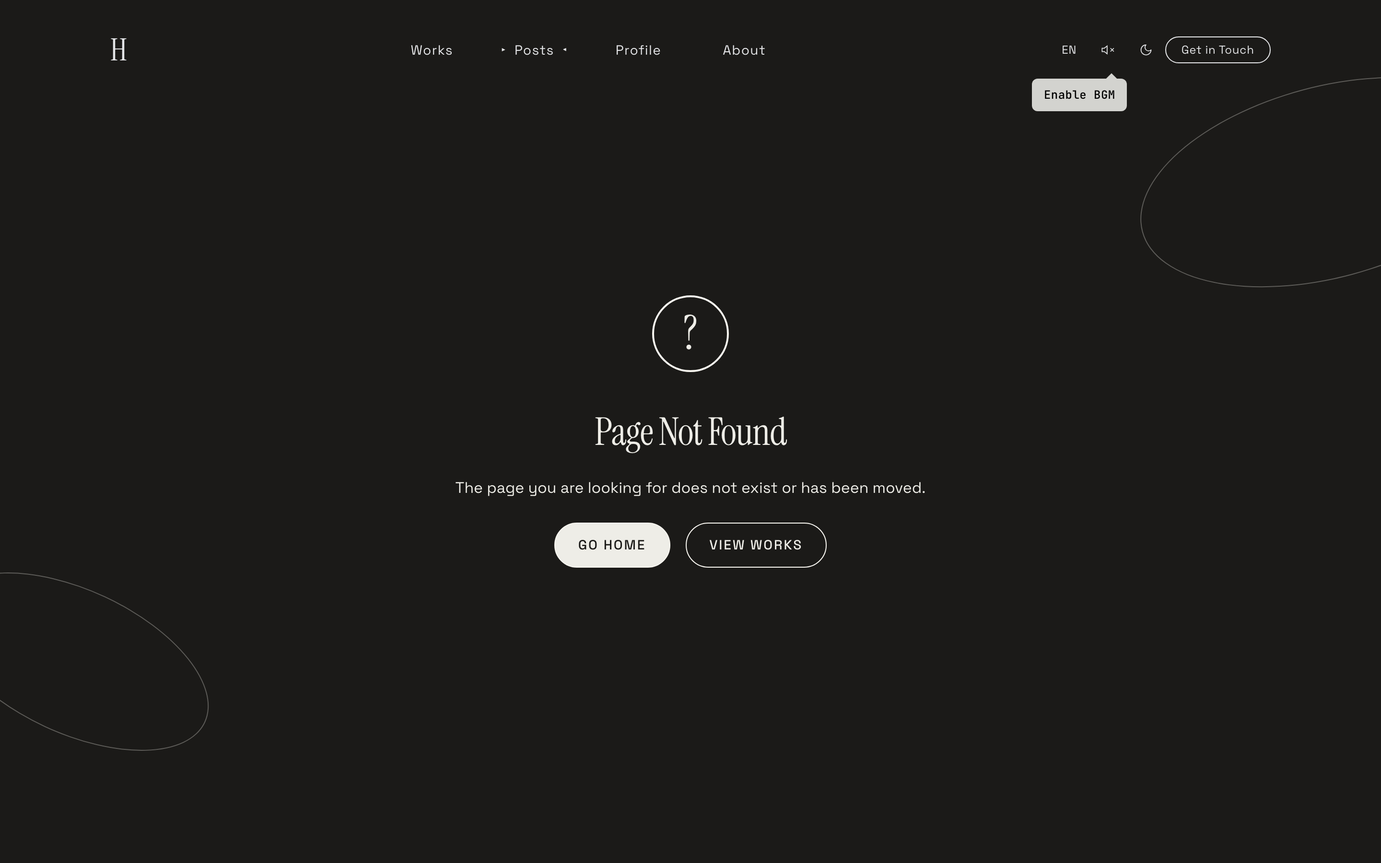
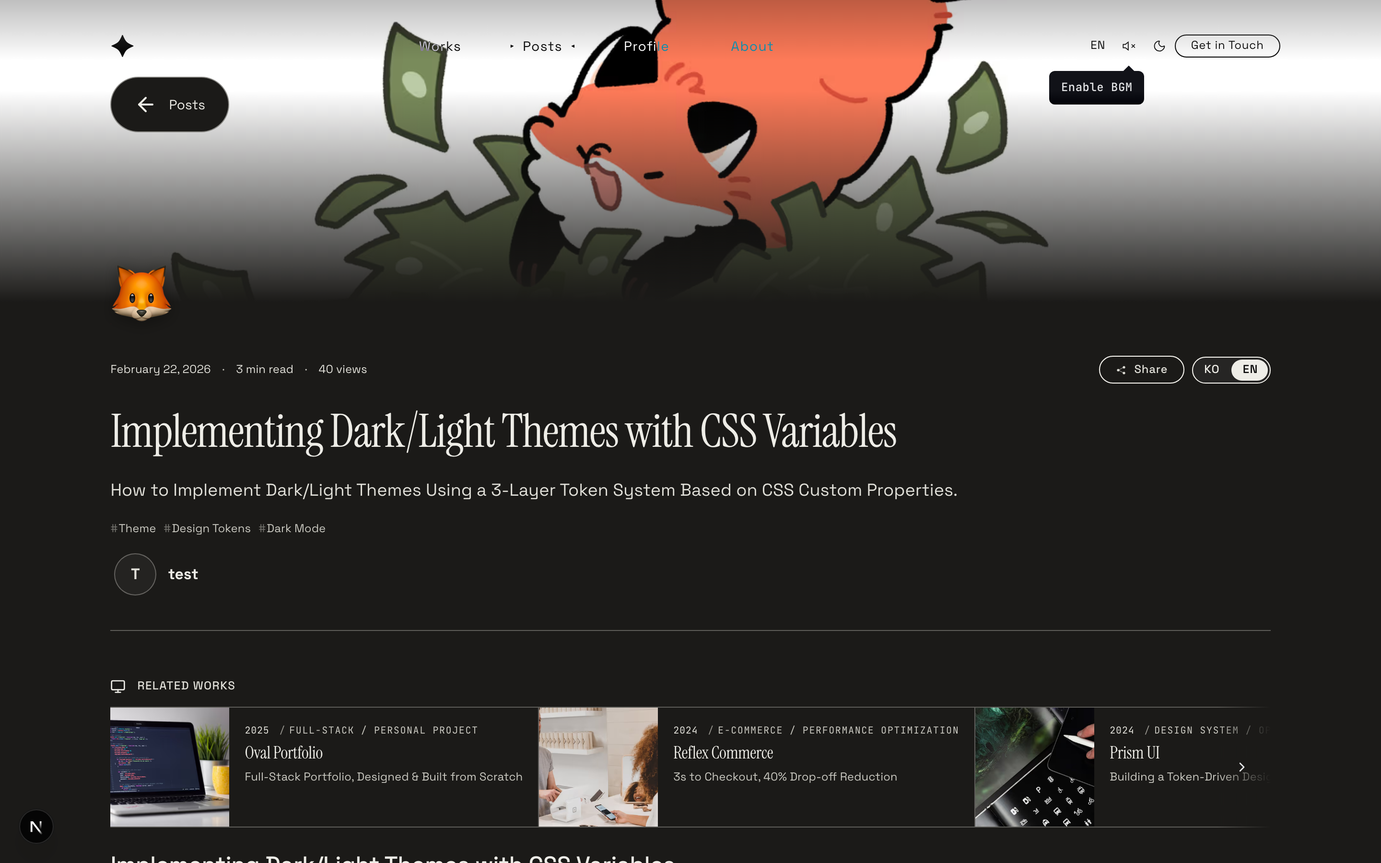
chore(config): 프로젝트 소개 수치·스택 최신화 + 스크린샷 교체
works 의 자기 소개가 Next.js 15 · 5주 · 컴포넌트 50개에 멈춰 있었다. 지금 상태(Next.js 16,
6개월째, 컴포넌트 250여 개, 라이브러리 70여 개)로 맞춘다. Lighthouse 점수는 어떤 항목인지
적지 않으면 오해를 부르므로 "모바일 Performance" 를 덧붙였다.

기능 소개용 스크린샷도 지금 화면으로 다시 찍었다.

Refs #605

diff --git a/src/config/site.config.ts b/src/config/site.config.ts
@@ -723,18 +723,18 @@ export const siteConfig = {
     // Progress ↔ Tech Stack 사이 시각적 구분선 이미지 (full-bleed cover)
     visualBreakImage: "https://images.unsplash.com/photo-1451187580459-43490279c0fa?w=1600&h=1000&fit=crop",
     /* ── Overview panel — 프로젝트 소개 문단 + highlights 칩 + stats 카드 ── */
-    overview_description_ko: "Claude와 함께 만든 풀스택 포트폴리오. Next.js 15 App Router를 기반으로 GSAP·Framer Motion 애니메이션, Lenis 무한 스크롤, Supabase 블로그까지 직접 설계하고 구현했습니다.",
-    overview_description_en: "A full-stack portfolio built alongside Claude. Designed and implemented from scratch — Next.js 15 App Router, GSAP & Framer Motion animations, Lenis infinite scroll, and a Supabase-powered blog.",
+    overview_description_ko: "Claude와 함께 만든 풀스택 포트폴리오. Next.js 16 App Router를 기반으로 GSAP·Framer Motion 애니메이션, Lenis 무한 스크롤, Supabase 블로그까지 직접 설계하고 구현했습니다.",
+    overview_description_en: "A full-stack portfolio built alongside Claude. Designed and implemented from scratch — Next.js 16 App Router, GSAP & Framer Motion animations, Lenis infinite scroll, and a Supabase-powered blog.",
     /* highlights — 쉼표 구분 문자열. OverviewPanel 가 split 해서 칩 렌더 */
-    overview_highlights: "Next.js 15, GSAP ScrollTrigger, Framer Motion, Lenis Smooth Scroll, Three.js (R3F), CSS Variables, Supabase, i18n (KO/EN), IP-Based Likes, Dark/Light Theme",
+    overview_highlights: "Next.js 16, GSAP ScrollTrigger, Framer Motion, Lenis Smooth Scroll, Three.js (R3F), CSS Variables, Supabase, i18n (KO/EN), IP-Based Likes, Dark/Light Theme",
     /* stats — value + label(ko,en). label 에 \n 들어가면 줄바꿈 */
     overview_stats: [
-      { value: "5 Wks+", label_ko: "개발 기간\n(2/5 – 3/12)", label_en: "Dev Period\n(2/5 – 3/12)" },
-      { value: "50+", label_ko: "컴포넌트", label_en: "Components" },
-      { value: "15+", label_ko: "커스텀 훅", label_en: "Custom Hooks" },
-      { value: "98", label_ko: "Lighthouse", label_en: "Lighthouse" },
+      { value: "6 Mo+", label_ko: "개발 기간\n(2/5 – 진행 중)", label_en: "Dev Period\n(Feb 5 – ongoing)" },
+      { value: "250+", label_ko: "컴포넌트", label_en: "Components" },
+      { value: "50+", label_ko: "커스텀 훅", label_en: "Custom Hooks" },
+      { value: "98", label_ko: "Lighthouse\n(모바일 Performance)", label_en: "Lighthouse\n(mobile performance)" },
       { value: "2", label_ko: "언어 지원", label_en: "Languages" },
-      { value: "15+", label_ko: "라이브러리", label_en: "Libraries" },
+      { value: "70+", label_ko: "라이브러리", label_en: "Libraries" },
     ] as Array<{ value: string; label_ko: string; label_en: string }>,
     /* ── Hero panel — 첫 화면 큰 글자. bilingual (기본값은 한=영 통일, admin 에서 언어별로 분기 가능) ── */
     /* 상단 라벨 — 비어있으면 i18n aboutPage.title ("The Making Of") 사용 */
@@ -806,7 +806,7 @@ export const siteConfig = {
     /* ── Tech stack — TechStackPanel 항목. admin 에서 자유롭게 추가/수정/삭제 ── */
     /* icon: simple-icons slug (예 "react") 또는 업로드/링크된 이미지 URL. 빈 값이면 이니셜 표시. */
     techStack: [
-      { name: "Next.js 15", category: "Framework", icon: "nextdotjs" },
+      { name: "Next.js 16", category: "Framework", icon: "nextdotjs" },
       { name: "React 19", category: "Library", icon: "react" },
       { name: "TypeScript", category: "Language", icon: "typescript" },
       { name: "GSAP", category: "Animation", icon: "greensock" },
@@ -828,31 +828,30 @@ export const siteConfig = {
     ] as Array<{ name: string; category: string; icon?: string }>,
     /* ── Features panel — 아이콘/제목/설명(ko,en)/tech 칩/이미지 URL ── */
     features: [
-      { icon: "01", title: "Infinite Scroll Loop", description_ko: "페이지 끝에 도달해도 끊김 없이 처음으로 돌아가는 무한 스크롤을 구현했습니다. 마지막과 첫 섹션 사이에 Bridge Section을 삽입해 루프 이음새가 자연스럽습니다.", description_en: "Scroll reaches the end and seamlessly loops back to the beginning. A bridge section between the last and first panels keeps the loop seam invisible.", tech: "Lenis, Infinite Scroll, Bridge Section", image: "https://images.pexels.com/photos/9409730/pexels-photo-9409730.jpeg?auto=compress&cs=tinysrgb&w=800" },
-      { icon: "02", title: "i18n Bilingual System", description_ko: "한국어/영어 전환을 지원하는 다국어 시스템입니다. Context API 기반으로 모든 UI가 즉시 전환되며, 어드민 콘텐츠도 이중 언어를 지원합니다. DeepL/Google/Gemini/Claude API 기반 자동 번역도 제공합니다.", description_en: "A bilingual system with instant Korean/English switching via Context API. Admin content supports dual languages, with auto-translation powered by DeepL/Google/Gemini/Claude API.", tech: "Context API, JSON Locale, Bilingual Content, DeepL/Gemini/Claude", image: "https://images.unsplash.com/photo-1706403615881-d83dc2067c5d?w=800&q=80" },
+      { icon: "01", title: "Infinite Scroll Loop", description_ko: "페이지 끝에 도달해도 끊김 없이 처음으로 돌아가는 무한 스크롤을 구현했습니다. 마지막과 첫 섹션 사이에 Bridge Section을 삽입해 루프 이음새가 자연스럽습니다.", description_en: "Scroll reaches the end and seamlessly loops back to the beginning. A bridge section between the last and first panels keeps the loop seam invisible.", tech: "Lenis, Infinite Scroll, Bridge Section", image: "/images/screenshots/pc/home-dark.png" },
+      { icon: "02", title: "i18n Bilingual System", description_ko: "한국어/영어 전환을 지원하는 다국어 시스템입니다. Context API 기반으로 모든 UI가 즉시 전환되며, 어드민 콘텐츠도 이중 언어를 지원합니다. DeepL/Google/Gemini/Claude API 기반 자동 번역도 제공합니다.", description_en: "A bilingual system with instant Korean/English switching via Context API. Admin content supports dual languages, with auto-translation powered by DeepL/Google/Gemini/Claude API.", tech: "Context API, JSON Locale, Bilingual Content, DeepL/Gemini/Claude", image: "/images/screenshots/pc/feat-i18n.png" },
       { icon: "03", title: "Performance Optimization", description_ko: "성능 분석을 통해 모바일 Lighthouse 점수를 60점에서 98점으로 끌어올리고, 페이지 용량을 70% 줄였습니다.", description_en: "Boosted mobile Lighthouse score from 60 to 98 and reduced page size by 70% through targeted optimization.", tech: "Font Subsetting, Lazy Loading, font-display, browserslist", image: "https://images.unsplash.com/photo-1611760357505-922600d8ffa6?w=800&q=80" },
-      { icon: "04", title: "Works Horizontal Gallery", description_ko: "작품들을 좌우로 스크롤하며 감상할 수 있는 가로 갤러리입니다. GSAP 기반 양방향 무한 래핑과 한/영 레이아웃 분기를 지원합니다.", description_en: "Browse works in a horizontal gallery with GSAP-powered infinite wrapping in both directions and layout branching for Korean/English.", tech: "GSAP, Infinite Wrapping, i18n Layout, Responsive", image: "https://images.unsplash.com/photo-1606819717115-9159c900370b?w=800&q=80" },
-      { icon: "05", title: "Dark / Light Theme", description_ko: "다크 모드와 라이트 모드를 전환하면 모든 요소가 부드럽게 테마에 맞춰 변합니다. 시스템 설정 감지와 사용자 선택 기억을 동시에 지원합니다.", description_en: "Switch between dark and light modes — every element smoothly transitions. Respects system preferences while remembering user choice.", tech: "CSS Variables, data-theme, prefers-color-scheme, localStorage", image: "https://images.unsplash.com/photo-1614278016630-017112643d7f?w=800&q=80" },
-      { icon: "06", title: "3D Scroll Torus", description_ko: "스크롤하면 화면 위를 떠다니는 금속 느낌의 3D 도넛 오브젝트입니다. 리사주 곡선 경로를 따라 움직이며 테마에 따라 질감이 바뀝니다.", description_en: "A metallic 3D torus floats along a Lissajous curve path as you scroll, with its texture adapting to the current theme.", tech: "Three.js, React Three Fiber, Lissajous Curve, Environment Map", image: "https://images.unsplash.com/photo-1739056238917-d89cd05c48d5?w=800&q=80" },
-      { icon: "07", title: "Posts & Series", description_ko: "Supabase 기반 블로그 시스템. Markdown/Rich Text 전환 에디터, 시리즈 발행, 카테고리별 책 모양 카드 탐색, 검색·태그 필터, 커버 이미지(프리셋/Unsplash/AI 생성), 발행 시 Gemini/OpenAI/Claude AI 자동 요약(ko+en)을 지원합니다.", description_en: "A full blog system on Supabase. Switchable Markdown/Rich Text editor, series publishing, book-shaped category browsing, search/tag filtering, cover images (presets/Unsplash/AI generation), and Gemini/OpenAI/Claude auto-summary (ko+en) on publish.", tech: "Supabase, Tiptap, Series, Canvas API, AI Cover, AI Summary", image: "https://images.unsplash.com/photo-1505682634904-d7c8d95cdc50?w=800&q=80" },
-      { icon: "08", title: "Comment & Like System", description_ko: "게스트 대댓글과 IP 기반 좋아요 시스템입니다. 닉네임+비밀번호로 댓글을 작성하고, 쓰레드 형태의 대댓글을 지원하며, 관리자 답변 시 이메일 알림이 발송됩니다.", description_en: "Guest threaded comments with IP-based likes. Post comments via nickname + password, with threaded replies and email notifications when the admin responds.", tech: "Supabase, Threaded Replies, IP Likes, Email Notify", image: "https://images.unsplash.com/photo-1662974770404-468fd9660389?w=800&q=80" },
-      { icon: "09", title: "Admin CMS", description_ko: "로그인 버튼 없이 URL 직접 접속 방식의 숨겨진 어드민입니다. 포스트·작품·프로필을 이중 언어로 CRUD하고, 테마·폰트·사이트 설정을 실시간으로 변경할 수 있습니다. DB 미연결 시 정적 데이터로 자동 fallback됩니다.", description_en: "A hidden admin accessed via direct URL — no visible login button. Full CRUD for posts, works, and profiles in dual languages, plus real-time theme, font, and site settings. Auto-falls back to static data when DB is unavailable.", tech: "Supabase Auth, Next.js Middleware, JSONB, Static Fallback", image: "https://images.unsplash.com/photo-1639313521811-fdfb1c040ddb?w=800&q=80" },
+      { icon: "04", title: "Works Horizontal Gallery", description_ko: "작품들을 좌우로 스크롤하며 감상할 수 있는 가로 갤러리입니다. GSAP 기반 양방향 무한 래핑과 한/영 레이아웃 분기를 지원합니다.", description_en: "Browse works in a horizontal gallery with GSAP-powered infinite wrapping in both directions and layout branching for Korean/English.", tech: "GSAP, Infinite Wrapping, i18n Layout, Responsive", image: "/images/screenshots/pc/feat-works.png" },
+      { icon: "05", title: "Dark / Light Theme", description_ko: "다크 모드와 라이트 모드를 전환하면 모든 요소가 부드럽게 테마에 맞춰 변합니다. 시스템 설정 감지와 사용자 선택 기억을 동시에 지원합니다.", description_en: "Switch between dark and light modes — every element smoothly transitions. Respects system preferences while remembering user choice.", tech: "CSS Variables, data-theme, prefers-color-scheme, localStorage", image: "/images/screenshots/pc/feat-colors.png" },
+      { icon: "06", title: "3D Scroll Torus", description_ko: "스크롤하면 화면 위를 떠다니는 금속 느낌의 3D 도넛 오브젝트입니다. 리사주 곡선 경로를 따라 움직이며 테마에 따라 질감이 바뀝니다.", description_en: "A metallic 3D torus floats along a Lissajous curve path as you scroll, with its texture adapting to the current theme.", tech: "Three.js, React Three Fiber, Lissajous Curve, Environment Map", image: "/images/screenshots/pc/feat-torus.png" },
+      { icon: "07", title: "Posts & Series", description_ko: "Supabase 기반 블로그 시스템. Markdown/Rich Text 전환 에디터, 시리즈 발행, 카테고리별 책 모양 카드 탐색, 검색·태그 필터, 커버 이미지(프리셋/Unsplash/AI 생성), 발행 시 Gemini/OpenAI/Claude AI 자동 요약(ko+en)을 지원합니다.", description_en: "A full blog system on Supabase. Switchable Markdown/Rich Text editor, series publishing, book-shaped category browsing, search/tag filtering, cover images (presets/Unsplash/AI generation), and Gemini/OpenAI/Claude auto-summary (ko+en) on publish.", tech: "Supabase, Plate, Series, Canvas API, AI Cover, AI Summary", image: "/images/screenshots/pc/feat-series.png" },
+      { icon: "08", title: "Comment & Like System", description_ko: "로그인 없이 쓰는 쓰레드형 댓글입니다. 비밀번호를 함께 받아 수정·삭제 때 대조하고, 관리자 답변 시 이메일로 알립니다. 댓글에는 giscus 식 이모지 반응 8종을, 게시물에는 IP 기준 좋아요를 답니다.", description_en: "Threaded comments that need no sign-in. A password is collected up front and checked on edit or delete, and the admin's reply triggers an email. Comments carry a giscus-style set of 8 emoji reactions; posts carry IP-based likes.", tech: "Supabase, Threaded Replies, Emoji Reactions, bcrypt, Email Notify", image: "/images/screenshots/pc/feat-comment.png" },
+      { icon: "09", title: "Admin CMS", description_ko: "로그인 버튼 없이 URL 직접 접속 방식의 숨겨진 어드민입니다. 포스트·작품·프로필을 이중 언어로 CRUD하고, 테마·폰트·사이트 설정을 실시간으로 변경할 수 있습니다. DB 미연결 시 정적 데이터로 자동 fallback됩니다.", description_en: "A hidden admin accessed via direct URL — no visible login button. Full CRUD for posts, works, and profiles in dual languages, plus real-time theme, font, and site settings. Auto-falls back to static data when DB is unavailable.", tech: "Supabase Auth, Next.js Middleware, JSONB, Static Fallback", image: "/images/screenshots/pc/feat-admin.png" },
     ] as Array<{ icon: string; title: string; description_ko: string; description_en: string; tech: string; image: string }>,
     /* ── Process panel — 단계/제목(ko,en)/설명(ko,en) ── */
     process: [
       { step: "01", title_ko: "설계 및 디자인 시스템 구축", title_en: "Design System & Foundation", description_ko: "**CSS Variables** 기반 디자인 토큰을 정의하고, **다크/라이트 테마** 전환 시스템과 **CSS Modules 캡슐화 구조를 설계**했습니다. 타이포그래피, 색상, 간격 체계를 확립하고 전체 레이아웃의 기반을 잡았습니다.", description_en: "Defined design tokens based on **CSS Variables**, and established a **dark/light theme** switching system with **CSS Modules encapsulation.** Established typography, color, and spacing systems that form the foundation of the entire layout." },
-      { step: "02", title_ko: "핵심 UI 컴포넌트 개발", title_en: "Core UI Component Development", description_ko: "**Hero** 섹션, **Navigation**, **Contact Drawer**, **Loading Screen** 등 주요 UI 컴포넌트를 구현했습니다. 네비게이션의 언어·테마 버튼에 **flip/pop 애니메이션**을 적용하고, 로딩 화면에 **001→100 카운팅 애니메이션**을 추가하는 등 각 컴포넌트의 인터랙션을 설계했습니다.", description_en: "Built core UI components including **Hero** section, **Navigation**, **Contact Drawer**, and **Loading Screen**. Applied **flip/pop animations** to the navigation's language and theme buttons, added a **001→100 counting animation** to the loading screen, and designed interactions for each component." },
-      { step: "03", title_ko: "인터랙션 및 모션 디자인", title_en: "Interaction & Motion Design", description_ko: "**GSAP**과 **Framer Motion**을 활용해 Image Velocity, StaggerText, Mouse Parallax, Magnetic Hover, Direction-Aware ClipPath 등 **물리 기반 인터랙션**을 구현했습니다. 스크롤 속도와 마우스 움직임에 반응하는 **스프링 감쇠 기반 애니메이션**으로 자연스러운 모션을 구현했습니다.", description_en: "Implemented **physics-based interactions** using **GSAP** and **Framer Motion** — Image Velocity, StaggerText, Mouse Parallax, Magnetic Hover, and Direction-Aware ClipPath. Built natural motion through **spring-damped animations** that respond to scroll speed and mouse movement." },
-      { step: "04", title_ko: "다국어 지원 및 반응형 최적화", title_en: "Internationalization & Responsive Design", description_ko: "한/영 **다국어(i18n)** 시스템을 도입하고, 언어별 텍스트 길이 차이로 발생하는 **레이아웃 시프트**를 min-height 예약 방식으로 해결했습니다. 데스크톱·태블릿·모바일 각 환경에 맞는 **반응형 레이아웃**을 구현하고, **clamp() 기반 유동 사이징**을 적용했습니다.", description_en: "Introduced a Korean/English **i18n system** and resolved **layout shifts** from text length differences using reserved min-height. Implemented **responsive layouts** tailored to desktop, tablet, and mobile environments with **clamp()-based fluid sizing**." },
-      { step: "05", title_ko: "성능 최적화", title_en: "Performance Optimization", description_ko: "**Lighthouse CLI**로 프로덕션 빌드를 측정하며 2차에 걸쳐 최적화를 진행했습니다. reCAPTCHA를 **invisible 모드 + 지연 로딩**으로 전환하고, 미사용 폰트 4종(12파일)을 제거하여 페이지 용량을 **70% 절감**, 모바일 **Performance 98점**을 달성했습니다.", description_en: "Measured production builds with **Lighthouse CLI** through two rounds of optimization. Switched reCAPTCHA to **invisible mode with lazy loading**, removed 4 unused font families (12 files), reduced page weight by **70%**, and achieved a mobile **Performance score of 98**." },
-      { step: "06", title_ko: "문서화 및 프로젝트 회고", title_en: "Documentation & Project Retrospective", description_ko: "기술 선택의 이유, 문제 해결 과정, 아키텍처 구조를 기록하는 **About 페이지**를 구현했습니다. Code Highlights, Troubleshooting, Architecture 시각화 등 **6개 패널**을 데스크톱 가로 스크롤과 모바일 세로 레이아웃으로 완성했습니다.", description_en: "Built the **About page** documenting technology choices, problem-solving processes, and architecture structure. Completed **6 panels** — Code Highlights, Troubleshooting, Architecture visualization, and more — desktop horizontal scroll and mobile vertical layout." },
+      { step: "02", title_ko: "UI 컴포넌트와 인터랙션 구현", title_en: "UI Components & Interaction", description_ko: "**Hero** 섹션, **Navigation**, **Contact Drawer**, **Loading Screen** 등 주요 UI 컴포넌트를 구현했습니다. 각 컴포넌트의 움직임은 **GSAP**과 **Framer Motion**으로 처리해 Image Velocity, StaggerText, Mouse Parallax, Magnetic Hover 를 만들었습니다. 스크롤 속도와 마우스 움직임에 **스프링 감쇠**로 반응하도록 해서, 값이 목표치로 점차 수렴하며 멈춥니다.", description_en: "Built the core UI components — **Hero** section, **Navigation**, **Contact Drawer**, and **Loading Screen**. Their motion runs on **GSAP** and **Framer Motion**: Image Velocity, StaggerText, Mouse Parallax, and Magnetic Hover. Each responds to scroll speed and pointer movement with **spring damping**, so values converge on their target and settle instead of snapping." },
+      { step: "03", title_ko: "다국어 지원 및 반응형 최적화", title_en: "Internationalization & Responsive Design", description_ko: "한/영 **다국어(i18n)** 시스템을 도입하고, 언어별 텍스트 길이 차이로 발생하는 **레이아웃 시프트**를 min-height 예약 방식으로 해결했습니다. 데스크톱·태블릿·모바일 각 환경에 맞는 **반응형 레이아웃**을 구현하고, **clamp() 기반 유동 사이징**을 적용했습니다.", description_en: "Introduced a Korean/English **i18n system** and resolved **layout shifts** from text length differences using reserved min-height. Implemented **responsive layouts** tailored to desktop, tablet, and mobile environments with **clamp()-based fluid sizing**." },
+      { step: "04", title_ko: "성능 최적화", title_en: "Performance Optimization", description_ko: "**Lighthouse CLI**로 프로덕션 빌드를 측정하며 2차에 걸쳐 최적화를 진행했습니다. reCAPTCHA를 **invisible 모드 + 지연 로딩**으로 전환하고, 미사용 폰트 4종(12파일)을 제거하여 페이지 용량을 **70% 절감**, 모바일 **Performance 98점**을 달성했습니다.", description_en: "Measured production builds with **Lighthouse CLI** through two rounds of optimization. Switched reCAPTCHA to **invisible mode with lazy loading**, removed 4 unused font families (12 files), reduced page weight by **70%**, and achieved a mobile **Performance score of 98**." },
+      { step: "05", title_ko: "문서화 및 프로젝트 회고", title_en: "Documentation & Project Retrospective", description_ko: "기술 선택의 이유, 문제 해결 과정, 아키텍처 구조를 기록하는 **About 페이지**를 구현했습니다. Code Highlights, Design Decisions, Architecture 시각화 등 **15개 패널**을 데스크톱 가로 스크롤과 모바일 세로 레이아웃으로 완성했습니다.", description_en: "Built the **About page** documenting technology choices, problem-solving processes, and architecture structure. Completed **15 panels** — Code Highlights, Design Decisions, Architecture visualization, and more — desktop horizontal scroll and mobile vertical layout." },
     ] as Array<{ step: string; title_ko: string; title_en: string; description_ko: string; description_en: string }>,
     /* ── Security panel — layer/icon/title(ko,en)/description(ko,en)/scope(ko,en) ── */
     security: [
       { layer: "SQL Injection", icon: "db", title_ko: "SQL Injection 방지", title_en: "SQL Injection Prevention", description_ko: "모든 DB 쿼리에 Supabase **파라미터화 쿼리**(prepared statements)를 사용합니다. 사용자 입력이 쿼리 문자열에 직접 삽입되지 않아 SQL Injection 공격을 원천 차단합니다.", description_en: "All database queries use Supabase **parameterized queries** (prepared statements). User input is never directly interpolated into query strings, blocking SQL injection attacks at the source.", scope_ko: "모든 DB 쿼리", scope_en: "All DB queries" },
       { layer: "XSS", icon: "shield", title_ko: "XSS 방지", title_en: "XSS Prevention", description_ko: "React JSX가 모든 사용자 입력을 **자동 이스케이프**합니다. `dangerouslySetInnerHTML`을 사용하지 않으며, 서버 측에서 **HTML 태그 스트리핑**과 **제어문자 제거**를 추가로 적용합니다.", description_en: "React JSX **auto-escapes** all user input. No `dangerouslySetInnerHTML` is used. Server-side **HTML tag stripping** and **control character removal** provide additional defense.", scope_ko: "모든 사용자 입력 렌더링", scope_en: "All user input rendering" },
       { layer: "Input Validation", icon: "check", title_ko: "입력 검증", title_en: "Input Validation", description_ko: "모든 공개 API 엔드포인트에서 **UUID 포맷 검증**, **길이 제한**(content 2000자, password 72B, email 254자, nickname 50자), **이메일 포맷 검증**, **enum 타입 검증**, **카테고리 화이트리스트 검증**을 수행합니다.", description_en: "All public API endpoints enforce **UUID format validation**, **length limits** (content 2000 chars, password 72B, email 254 chars, nickname 50 chars), **email format validation**, **enum type checks**, and **category whitelist validation**.", scope_ko: "모든 공개 API", scope_en: "All public APIs" },
-      { layer: "Authentication", icon: "lock", title_ko: "이중 인증 시스템", title_en: "Dual Authentication System", description_ko: "댓글 수정/삭제에 **이중 인증** 적용 -- 브라우저 UUID 기반 `commenter_hash`(자동)와 **bcrypt**(salt round 10) 비밀번호(수동). 관리자는 **Supabase Auth** 세션으로 별도 인증합니다.", description_en: "Comment edit/delete uses **dual authentication** -- browser UUID-based `commenter_hash` (automatic) and **bcrypt** (salt round 10) password (manual). Admin uses separate **Supabase Auth** session.", scope_ko: "댓글 수정/삭제, 관리자", scope_en: "Comment edit/delete, Admin" },
+      { layer: "Authentication", icon: "lock", title_ko: "단일 경로 인증", title_en: "Single-path Authentication", description_ko: "익명 댓글의 수정/삭제는 **bcrypt**(salt round 10) 비밀번호 **한 경로로만** 인증합니다. 브라우저 UUID 기반 `commenter_hash` 로도 통과시키던 경로는 제거했습니다. 31비트 비암호 해시라 위변조가 가능했고, 아바타 표시를 위해 공개 응답에 포함되는 값이기 때문입니다. 관리자는 **Supabase Auth** 세션으로 인증합니다.", description_en: "Editing or deleting an anonymous comment authenticates through **one path only**: a **bcrypt** (salt round 10) password. The path that also accepted a browser UUID-based `commenter_hash` was removed, because that value is a 31-bit non-cryptographic hash and is returned in the public response so avatars can be drawn. Admins authenticate with a **Supabase Auth** session.", scope_ko: "댓글 수정/삭제, 관리자", scope_en: "Comment edit/delete, Admin" },
       { layer: "RLS", icon: "rows", title_ko: "Row Level Security", title_en: "Row Level Security", description_ko: "Supabase **RLS 정책**으로 테이블별 접근 권한을 DB 레벨에서 제어합니다. 서버 API를 우회하더라도 인증되지 않은 데이터 접근이 불가능합니다.", description_en: "Supabase **RLS policies** control table-level access at the database layer. Unauthorized data access is impossible even if server APIs are bypassed.", scope_ko: "모든 테이블", scope_en: "All tables" },
       { layer: "Route Protection", icon: "route", title_ko: "경로 보호", title_en: "Route Protection", description_ko: "Layout 레벨에서 **Supabase Auth 세션**을 확인합니다. 미인증 시 접근 거부 페이지로 리다이렉트되며, 로그인 URL을 외부에 노출하지 않습니다.", description_en: "**Supabase Auth session** is verified at the layout level. Unauthenticated requests redirect to an access denied page. Login URL is not exposed externally.", scope_ko: "/admin/* 전체", scope_en: "All /admin/* routes" },
       { layer: "Duplication", icon: "fingerprint", title_ko: "중복 방지", title_en: "Duplication Prevention", description_ko: "좋아요·방문자 통계에 **IP 기반 UNIQUE 제약조건**을 적용합니다. `UNIQUE(target_type, target_id, ip)` 하나로 모든 엔티티의 중복을 DB 레벨에서 차단합니다.", description_en: "**IP-based UNIQUE constraints** prevent duplicate likes and visit counts. A single `UNIQUE(target_type, target_id, ip)` blocks all entity duplicates at the DB level.", scope_ko: "좋아요, 방문자 통계", scope_en: "Likes, visit stats" },
